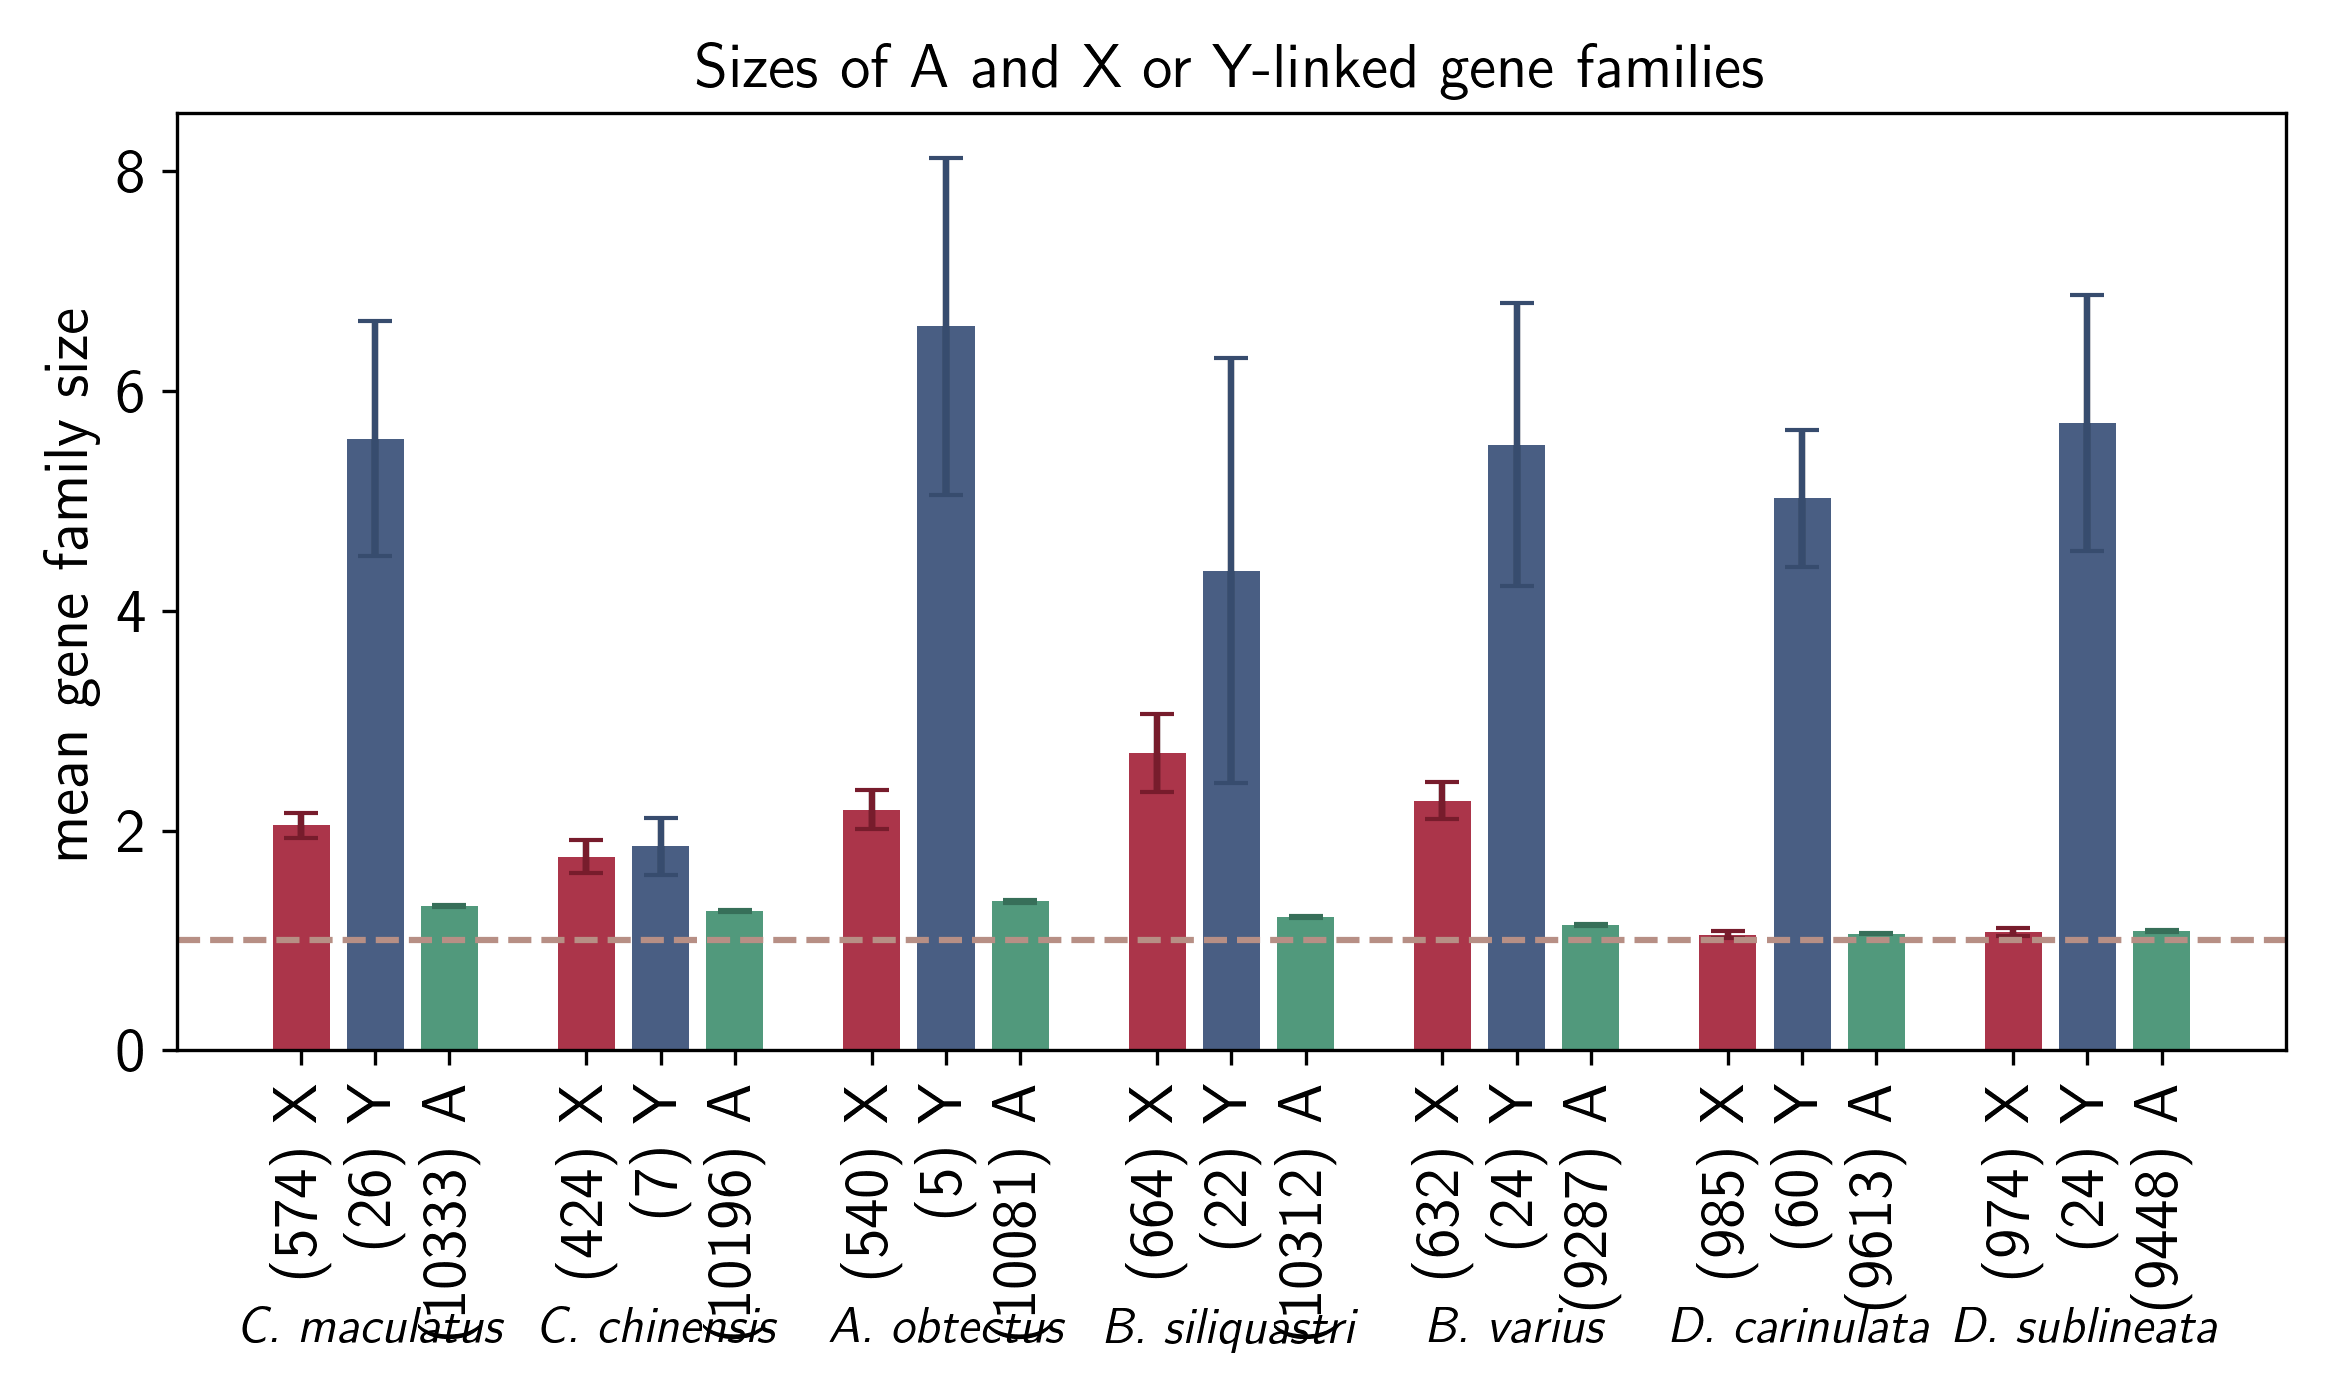
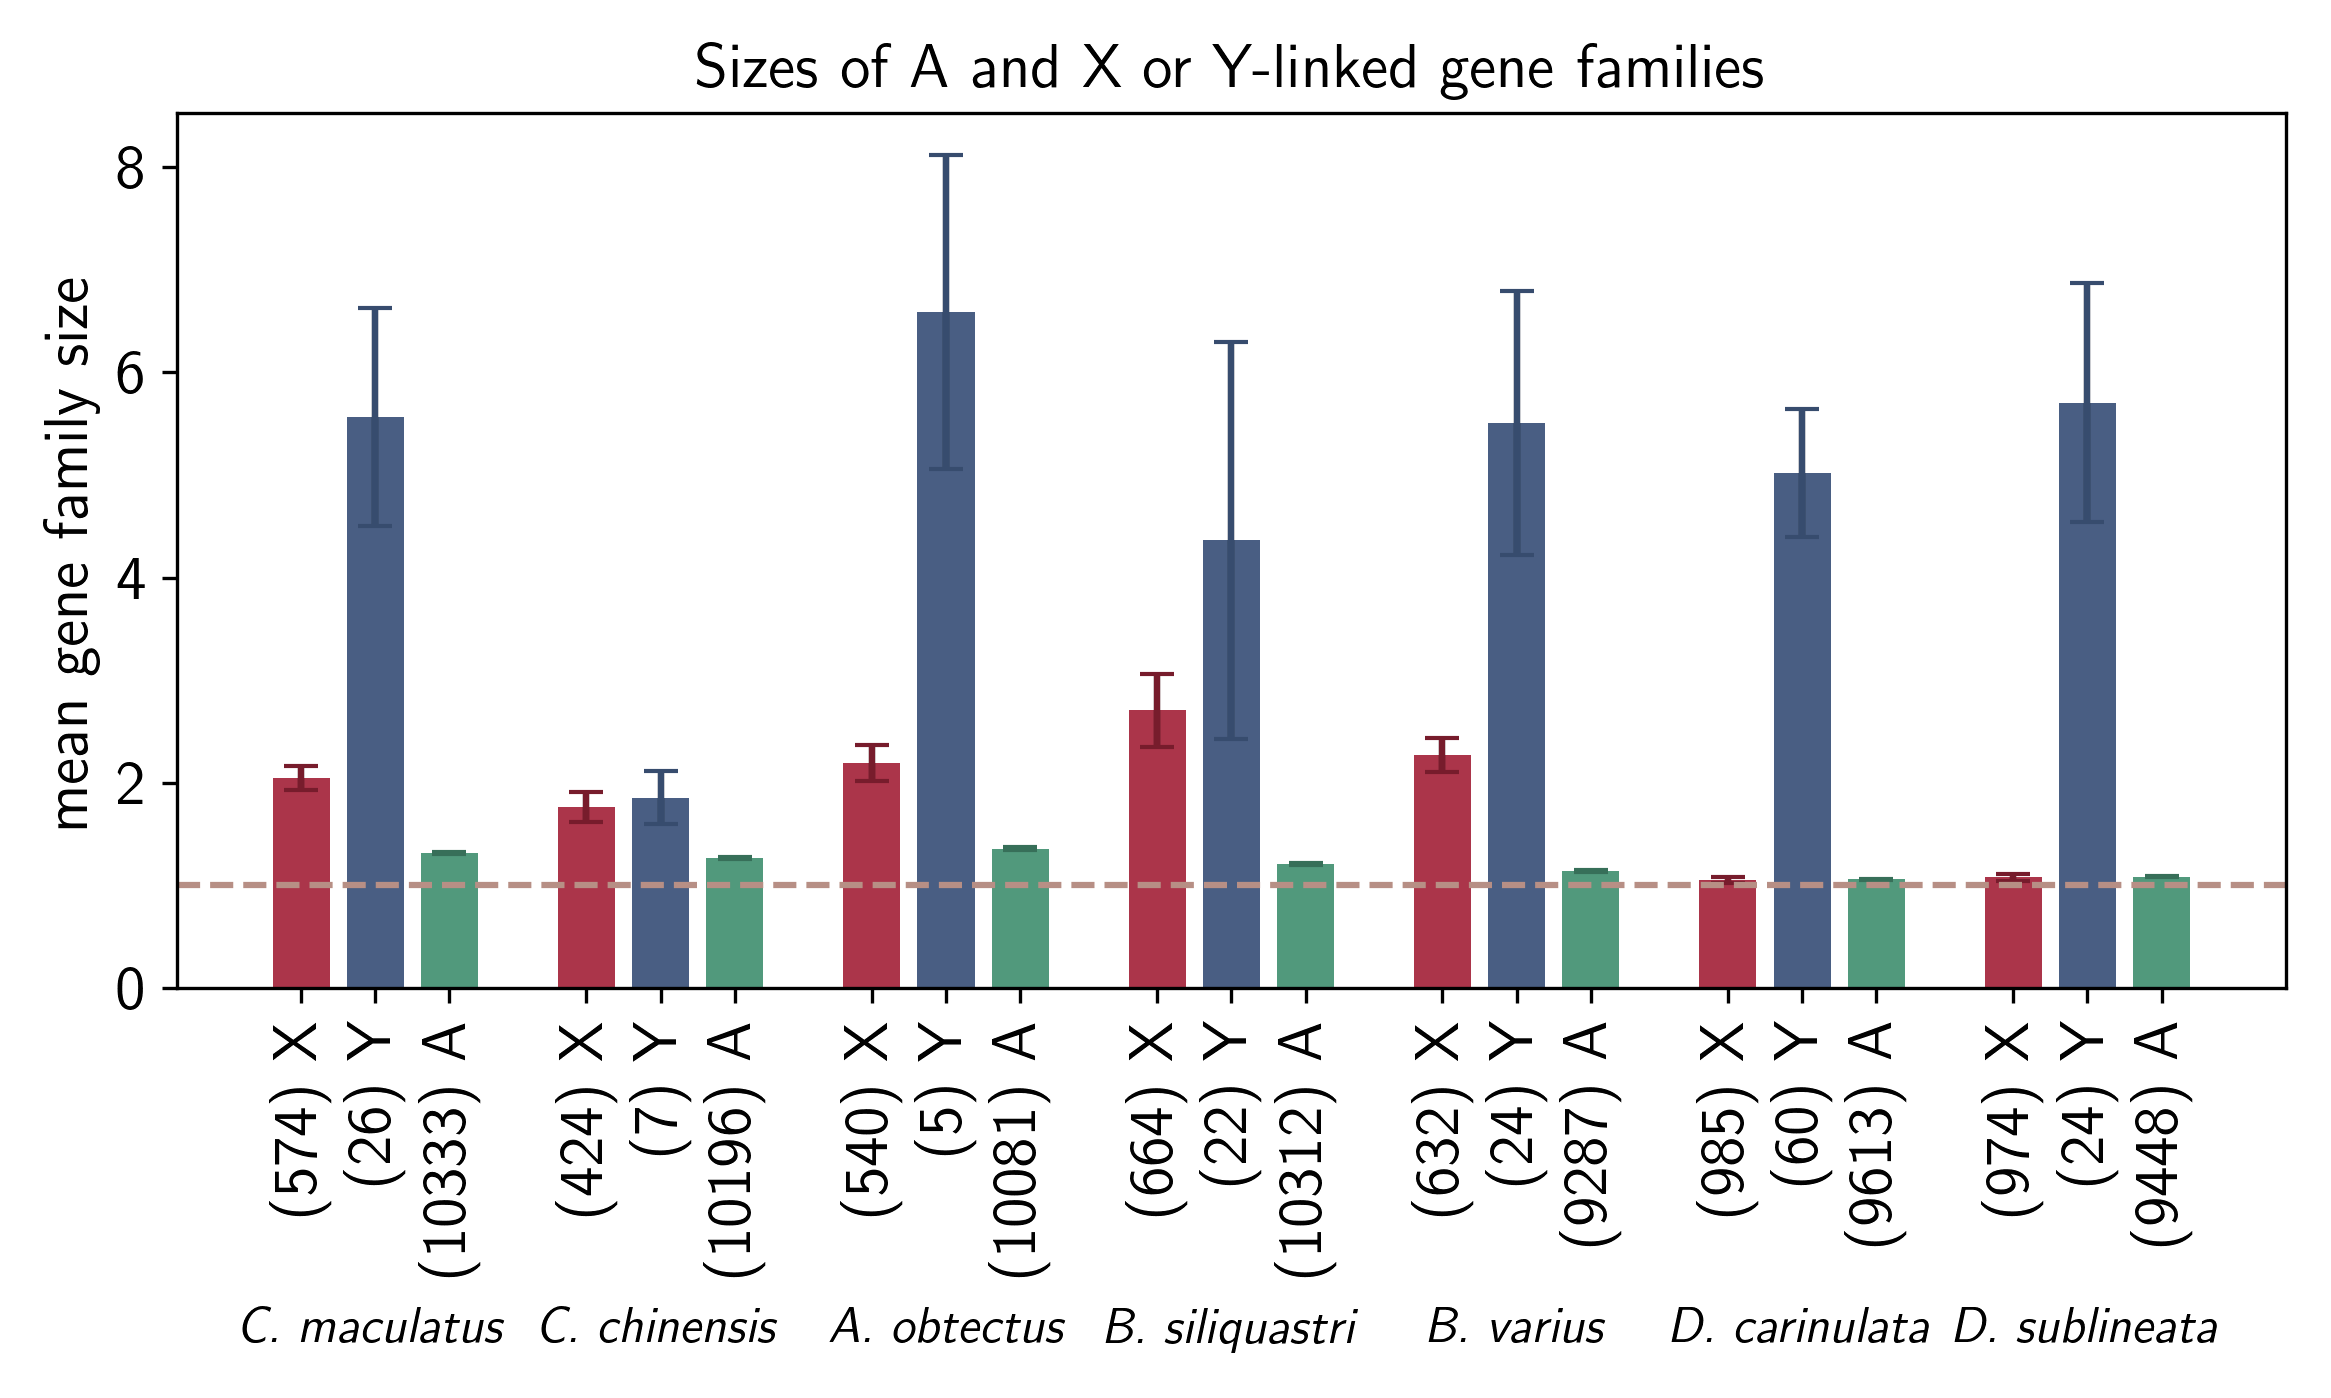
spacing

diff --git a/index.html b/index.html
@@ -3276,8 +3276,15 @@ The min. sequence identity threshold is 95%, for min intron length see methods s
     <h4>Mean gene family size split by X or Y-linkage</h4>
     <p>
         Any gene families that are still single-member after including the miniprot paralogs are excluded since Y-linkage cannot be the product of a duplication.
-        Therefore they are not included when investigating expansions onto the X and Y here
+        Therefore they are not included when investigating expansions onto the X and Y here.
     </p>
+    <p>
+        The gene family sizes are adjusted according to the chromosome category, because gene families restricted to autosomes have a smaller portion of the genome 
+        available compared to those who are X-linked (and have all autosomes and also the X available to them). I correct for this by calculating the proportions 
+        that the X and Y linked gene families have available in addition to the autosomes and then dividing, so the X correction factor is <code> genome_A / (genome_A+genome_X)</code>
+        with Y being defined accordingly as well, and A being not corrected (since that would be a factor of 1).
+    </p>
+
     <div class="tab">
         <button class="tablinks" onclick="openTab(event, 'XY_gf_size_gff_mini_upset')">including miniprot paralogs</button>
         <button class="tablinks" onclick="openTab(event, 'XY_gf_size_gff_upset')">only gff annotation</button>

diff --git a/src/GF_sizes.py b/src/GF_sizes.py
@@ -472,7 +472,10 @@ def check_sex_linked_GF_size(hog_sexchr_dict, species_list, chr_string: Literal[
                 ax2.set_xticks([i+1 for i in range(len(species_list))])
                 species_list_ = [s.replace("_", ". ") for s in species_list]
                 ax2.set_xticklabels([f"\\textit{{{s}}}" for s in species_list_], fontsize=fs*fs_factor, rotation=90)
-                ax2.spines['bottom'].set_position(('outward', 55))   # 70 for below
+                if min_GF_size >0:
+                    ax2.spines['bottom'].set_position(('outward', 55))   # 70 for below
+                else:
+                    ax2.spines['bottom'].set_position(('outward', 70))   # 70 for below
                 ax2.xaxis.set_ticks_position('none')
                 ax2.spines['bottom'].set_visible(False)
                 ax2.tick_params(axis='x', labelsize=fs*fs_factor)
@@ -698,7 +701,7 @@ if __name__ == "__main__":
     ]
 
     #################################################
-    only_gff = True    # if True: only read the orthogroups from orthofinder and don't add the within-species paralogs from miniprot ; if False: include the miniprot paralogs
+    only_gff = False    # if True: only read the orthogroups from orthofinder and don't add the within-species paralogs from miniprot ; if False: include the miniprot paralogs
     #################################################
     
     if only_gff:
